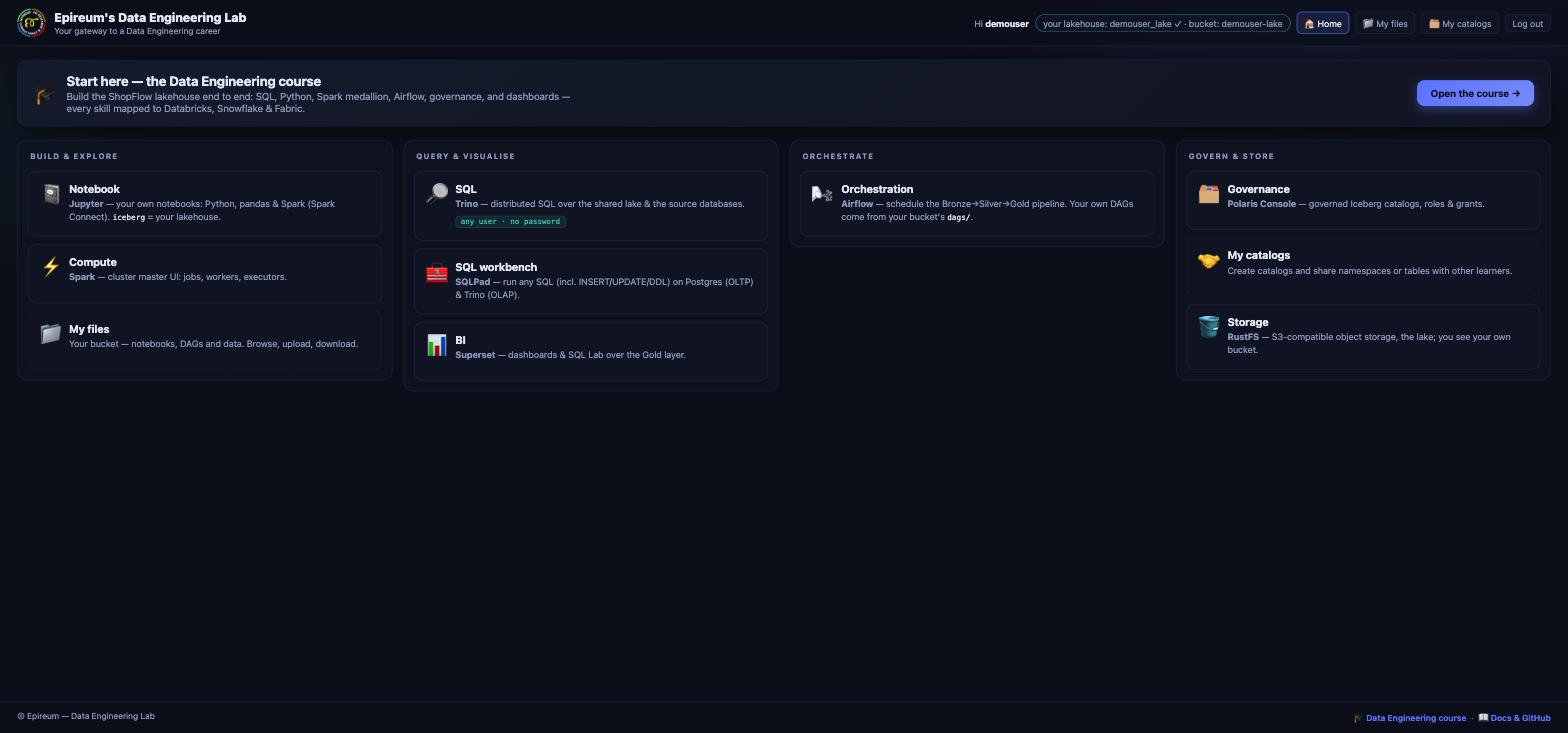
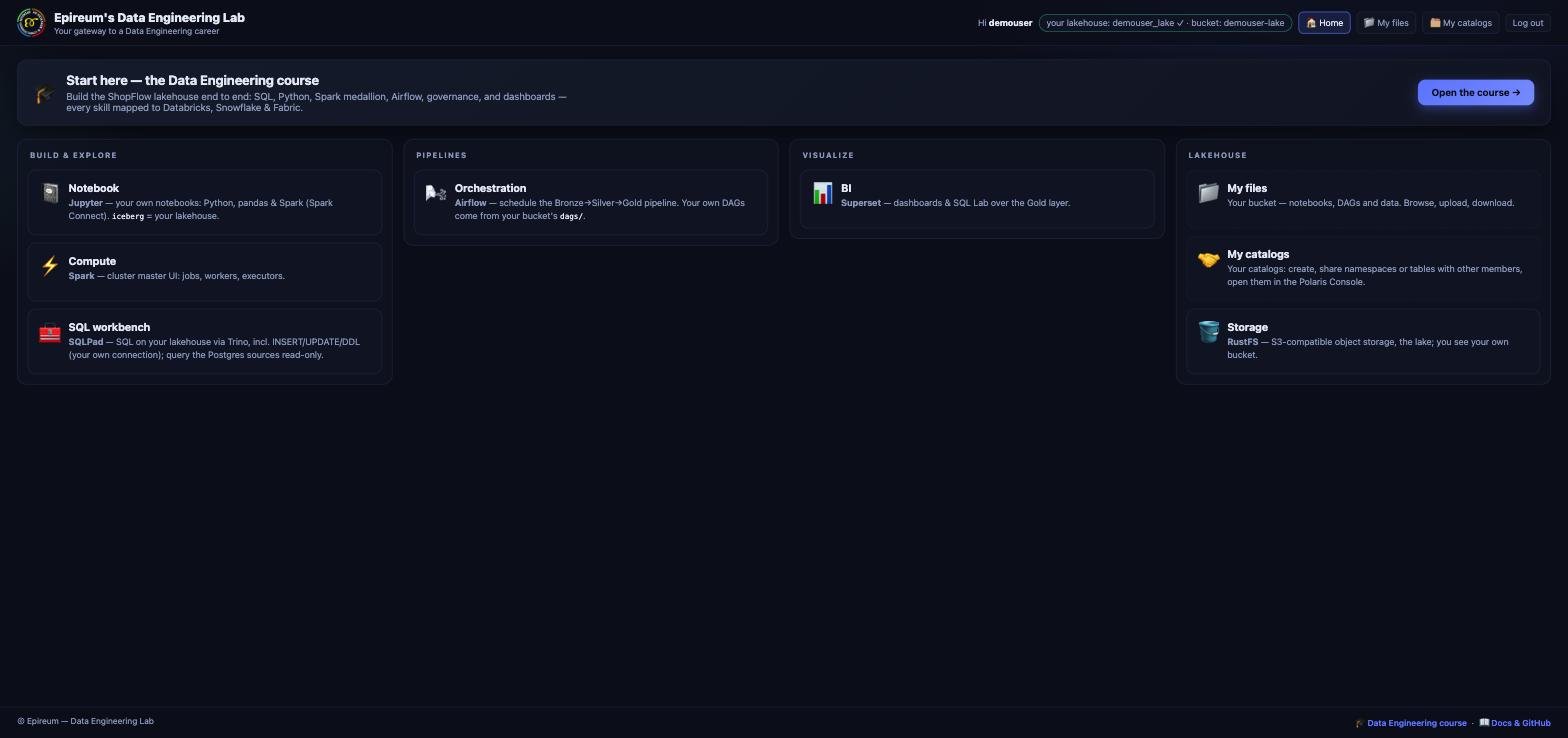
Course: new home page groups, fresh home screenshot, and a 'Starting over' section (reset lakehouse vs wipe, Manage members)

diff --git a/training/docs/setup/workspace.md b/training/docs/setup/workspace.md
@@ -45,8 +45,8 @@ open — Superset, Airflow, SQLPad — keeps its own session until you log out t
 
 The top bar of the landing page shows it: **"your lakehouse: `<you>_lake` ✓ · bucket:
 `<you>-lake`"**, plus **📁 My files**, **🗂 My catalogs** and **Log out**. Below it, the
-tools are grouped in four columns — *Build & explore*, *Query & visualise*, *Orchestrate*,
-*Govern & store*.
+tools are grouped in four columns — *Build & explore* (Notebook, Compute, SQL workbench),
+*Pipelines* (Airflow), *Visualize* (Superset) and *Lakehouse* (My files, My catalogs, Storage).
 
 ## Which lake am I querying?
 
@@ -147,8 +147,22 @@ tells you whose is whose.
   it, add namespaces and tables. (The Console's own **Catalogs** list shows `0` for learners:
   listing *all* catalogs is admin-only, so open yours from here.)
 
+## Starting over
+
+Broke your lakehouse, or want a clean slate for the next unit? Ask your **platform manager**
+(on your laptop stack, that's you: sign in as `manager`). On the landing page they have
+**👥 Manage members**, with two resets:
+
+| | What goes | What stays |
+|---|---|---|
+| **Reset lakehouse** | every table and view in your catalogs (bronze / silver / gold and the sample table come back) | your files, notebooks, DAGs, catalogs and shares |
+| **Wipe** | everything: tables, extra catalogs, the shares you gave, your bucket, your Jupyter files | your account; you're back to a new member's setup (lakehouse, sample table, starter files) |
+
+The same page lets managers create members, give someone a new password, and delete an account.
+
 ## You can now…
 - Register, sign in once and reach every tool with your lab account
 - Tell your own lakehouse (`iceberg` in Jupyter) from the shared lake (`shared` in Jupyter, `iceberg` in Trino)
 - Keep notebooks and DAGs in `notebooks/` and `dags/`, and name DAGs `<you>_…`
 - Create a catalog and share a namespace or table with another learner
+- Know when to ask a manager for a lakehouse reset or a full wipe

diff --git a/training/docs/index.md b/training/docs/index.md
@@ -99,8 +99,9 @@ example is written for it), or **Register** your own.
 
 ### 2 · The home page — your platform at a glance
 After signing in you land on the lab home: the tools grouped the way a data team thinks about
-them — **Build & explore**, **Query & visualise**, **Orchestrate**, **Govern & store**. The header
-shows who you are and your own lakehouse and bucket.
+them — **Build & explore** (notebooks, Spark, SQL), **Pipelines** (Airflow), **Visualize**
+(Superset) and **Lakehouse** (your files, catalogs and storage). The header shows who you are and
+your own lakehouse and bucket.
 
 ![The lab home page](assets/tour/home.jpg)
 
